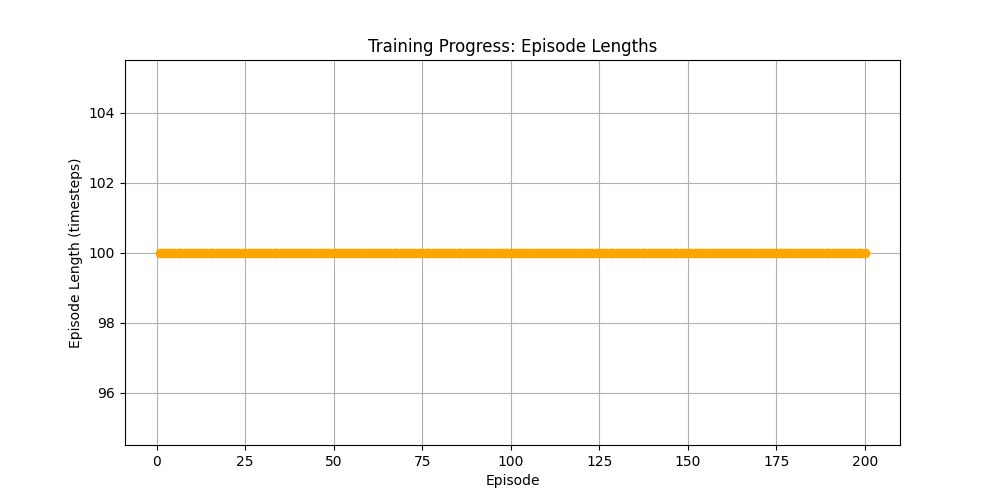
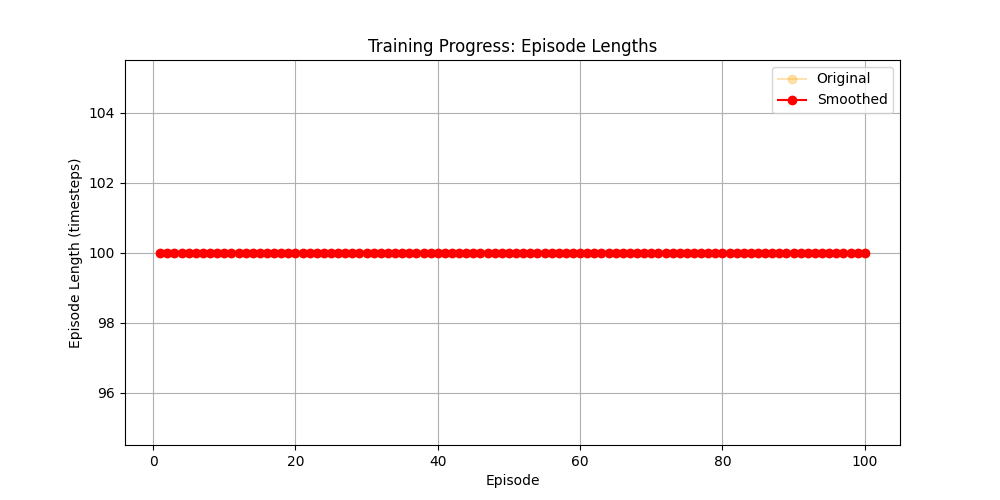
add the details of lanes

diff --git a/network/environment.py b/network/environment.py
@@ -26,7 +26,7 @@ class Network:
             num_vehicles=15,
             num_lower_uavs=1,
             num_upper_uavs=1,
-            num_rsus=5,
+            num_rsus=8,
             num_base_stations=1
         )
         # 计算真实状态维度
@@ -142,83 +142,90 @@ class Network:
     def add_base_station(self, base_station: BaseStation):
         self.base_stations.append(base_station)
 
-    def reset_nodes(self, num_vehicles, num_lower_uavs, num_upper_uavs, num_rsus,
-                         num_base_stations):
-        """初始化所有节点，并按照布局生成合理的位置"""
-        # 清空已有节点列表，防止重复添加
+    def reset_nodes(self, num_vehicles, num_lower_uavs, num_upper_uavs, num_rsus,num_base_stations):
+        """初始化所有节点，并按照新的10km*10km布局生成合理的位置"""
+        # 清空已有节点
         self.vehicles = []
         self.lower_uavs = []
         self.upper_uavs = []
         self.rsus = []
         self.base_stations = []
 
-        lane_positions = [
-            (np.array([100, 500, 0]), np.array([900, 500, 0])),  # 水平车道
-            (np.array([500, 100, 0]), np.array([500, 900, 0]))  # 垂直车道
+        # 10km × 10km 场景，五个十字路口（单位：米）
+        intersections = [
+            np.array([5000, 5000, 0]),  # 主十字路口（中心）
+            np.array([2500, 5000, 0]),  # 左侧十字路口
+            np.array([7500, 5000, 0]),  # 右侧十字路口
+            np.array([5000, 2500, 0]),  # 下侧十字路口
+            np.array([5000, 7500, 0])  # 上侧十字路口
         ]
-        intersections = [np.array([500, 500, 0])]  # 十字路口位置
 
-        # 初始化车辆（在车道上）
+        # 车道（水平和垂直）
+        lane_positions = []
+        for inter in intersections:
+            lane_positions.append((inter - np.array([4000, 0, 0]), inter + np.array([4000, 0, 0])))  # 水平车道
+            lane_positions.append((inter - np.array([0, 4000, 0]), inter + np.array([0, 4000, 0])))  # 垂直车道
+
+        # 初始化车辆（分布在十字车道上）
         for i in range(num_vehicles):
             lane = random.choice(lane_positions)
             position = lane[0] + np.random.rand() * (lane[1] - lane[0])
             vehicle = Vehicle(vid=i)
             vehicle.position = position
             vehicle.position[2] = 0  # 固定高度
-            vehicle.direction=vehicle._random_direction()
+            vehicle.direction = vehicle._random_direction()
             vehicle.task_queue.clear()
             vehicle.generate_task(vehicle.vid)
             self.add_vehicle(vehicle)
 
-        # 初始化低空无人机（尽量在十字路口附近）
+        # 初始化低空无人机（在十字路口附近）
         for i in range(num_lower_uavs):
-            position = intersections[0] + np.random.uniform(-300, 300, 3)
+            intersection = random.choice(intersections)
+            position = intersection + np.random.uniform(-500, 500, 3)
             position[2] = 50  # 固定高度
             lower_uav = LowerUAV(uav_id=i, position=position, speed=10)
             lower_uav.task_queue.clear()
-            lower_uav.energy=100
+            lower_uav.energy = 100
             self.add_lower_uav(lower_uav)
 
-        # 初始化高空无人机（在十字路口上方）
+        # 初始化高空无人机（在主十字路口上方）
         for i in range(num_upper_uavs):
-            position = intersections[0] + np.random.uniform(-10, 10, 3)
+            intersection = intersections[0]
+            position = intersection + np.random.uniform(-50, 50, 3)
             position[2] = 200  # 固定高度
             upper_uav = UpperUAV(uav_id=i, position=position)
             upper_uav.task_queue.clear()
             upper_uav.energy = 100
             self.add_upper_uav(upper_uav)
 
-        # 初始化 RSU（在路边）
-        for i in range(num_rsus):
-            lane = random.choice(lane_positions)
-            position = lane[0] + np.random.rand() * (lane[1] - lane[0])
-            position[2] = 0  # 固定高度
-            position += np.random.uniform(-100, 100, 3) * np.array([1, 1, 0])
-            rsu = RSU(rsu_id=i, position=position, coverage_range=300, compute_capacity=50e8)
+        # 初始化 RSU（均匀分布在路边，共8个）
+        rsu_positions = [
+            intersections[0],  # 中央十字路口
+            intersections[1], intersections[2], intersections[3], intersections[4],  # 四个衍生十字路口
+            np.array([1000, 5000, 0]),  # 左侧道路
+            np.array([9000, 5000, 0]),  # 右侧道路
+            np.array([5000, 1000, 0]),  # 下侧道路
+            np.array([5000, 9000, 0])  # 上侧道路
+        ]
+
+        for i, position in enumerate(rsu_positions):
+            rsu = RSU(rsu_id=i, position=position, coverage_range=1000, compute_capacity=50e8)
             self.add_rsu(rsu)
 
-        # 初始化基站（在边缘区域）
+        # 初始化基站（放置在边界，靠近四个角落）
+        base_station_positions = [
+            np.array([1000, 1000, 0]),  # 左下角
+            np.array([9000, 1000, 0]),  # 右下角
+            np.array([1000, 9000, 0]),  # 左上角
+            np.array([9000, 9000, 0])  # 右上角
+        ]
         for i in range(num_base_stations):
-            position = np.array([random.choice([100, 900]), random.choice([100, 900]), 0])
-            position[2] = 0  # 固定高度
-            base_station = BaseStation(bs_id=i, position=position, coverage_range=500, compute_capacity=70e8)
+            position = random.choice(base_station_positions)
+            base_station = BaseStation(bs_id=i, position=position, coverage_range=2000, compute_capacity=70e8)
             self.add_base_station(base_station)
+
         self.time_step = 0
-        # self.print_for_init()
         return self.get_global_state()
-    # def reset(self):
-    #     """重置环境并返回初始状态"""
-    #     for vehicle in self.vehicles:
-    #         vehicle.reset()
-    #     for lower_uav in self.lower_uavs:
-    #         lower_uav.reset()
-    #     for upper_uav in self.upper_uavs:
-    #         upper_uav.reset()
-    #     for rsu in self.rsus:
-    #         rsu.reset()
-    #     for base_station in self.base_stations:
-    #         base_station.reset()
-    #     self.time_step = 0
 
 
     def print_for_init(self):
@@ -260,41 +267,76 @@ class Network:
             pos = bs.position
             print(f"BaseStation {bs.bs_id} 位置: [{pos[0]:.2f}, {pos[1]:.2f}, "
                   f"{pos[2]:.2f}] 覆盖范围: {bs.coverage_range} m 计算能力: {bs.compute_capacity:.0e} ops")
+
     def visualize(self):
         """可视化初始化后的网络环境"""
         fig = plt.figure()
         ax = fig.add_subplot(111, projection='3d')
 
-        # 绘制车辆节点
+        # 场景范围
+        scene_size = 10000  # 10km * 10km
+
+        # 定义十字路口坐标
+        intersections = [
+            np.array([5000, 5000, 0]),  # 主十字路口
+            np.array([2500, 5000, 0]),  # 左侧十字路口
+            np.array([7500, 5000, 0]),  # 右侧十字路口
+            np.array([5000, 2500, 0]),  # 下侧十字路口
+            np.array([5000, 7500, 0])  # 上侧十字路口
+        ]
+
+        # 车道（水平和垂直）
+        lane_positions = [
+            ((0, 5000, 0), (10000, 5000, 0)),  # 水平主干道
+            ((0, 2500, 0), (10000, 2500, 0)),  # 水平次干道
+            ((0, 7500, 0), (10000, 7500, 0)),  # 水平次干道
+            ((5000, 0, 0), (5000, 10000, 0)),  # 垂直主干道
+            ((2500, 0, 0), (2500, 10000, 0)),  # 垂直次干道
+            ((7500, 0, 0), (7500, 10000, 0))  # 垂直次干道
+        ]
+
+        # 绘制车道
+        for lane in lane_positions:
+            x_vals = [lane[0][0], lane[1][0]]
+            y_vals = [lane[0][1], lane[1][1]]
+            z_vals = [lane[0][2], lane[1][2]]
+            ax.plot(x_vals, y_vals, z_vals, 'k-', linewidth=2, label="Road")
+
+        # 绘制十字路口
+        for intersection in intersections:
+            ax.scatter(intersection[0], intersection[1], intersection[2], c='black', marker='X', s=100,
+                       label="Intersection")
+
+        # 绘制车辆
         for vehicle in self.vehicles:
             ax.scatter(vehicle.position[0], vehicle.position[1], vehicle.position[2], c='r', marker='o',
                        label="Vehicle")
 
-        # 绘制低空无人机节点
+        # 绘制低空无人机
         for lower_uav in self.lower_uavs:
             ax.scatter(lower_uav.position[0], lower_uav.position[1], lower_uav.position[2], c='b', marker='^',
                        label="Lower UAV")
 
-        # 绘制高空无人机节点
+        # 绘制高空无人机
         for upper_uav in self.upper_uavs:
             ax.scatter(upper_uav.position[0], upper_uav.position[1], upper_uav.position[2], c='g', marker='v',
                        label="Upper UAV")
 
-        # 绘制RSU节点
+        # 绘制 RSU
         for rsu in self.rsus:
             ax.scatter(rsu.position[0], rsu.position[1], rsu.position[2], c='y', marker='s', label="RSU")
 
-        # 绘制基站节点
+        # 绘制基站
         for base_station in self.base_stations:
             ax.scatter(base_station.position[0], base_station.position[1], base_station.position[2], c='m', marker='D',
                        label="Base Station")
 
         # 设置坐标轴标签
-        ax.set_xlabel('X Coordinate')
-        ax.set_ylabel('Y Coordinate')
-        ax.set_zlabel('Z Coordinate')
+        ax.set_xlabel('X Coordinate (m)')
+        ax.set_ylabel('Y Coordinate (m)')
+        ax.set_zlabel('Z Coordinate (m)')
 
-        # 防止标签重复
+        # 统一图例，防止重复
         handles, labels = ax.get_legend_handles_labels()
         by_label = dict(zip(labels, handles))
         ax.legend(by_label.values(), by_label.keys())

diff --git a/network/Test.py b/network/Test.py
@@ -88,20 +88,36 @@ def main():
     # ---------------------------
     # 5. 可视化训练进度
     # ---------------------------
+    def smooth_curve(data, alpha=0.3):
+        smoothed = []
+        last = data[0]  # 初始值
+        for point in data:
+            last = alpha * point + (1 - alpha) * last  # 计算指数移动平均
+            smoothed.append(last)
+        return smoothed
+
+    # 计算平滑后的曲线
+    smoothed_rewards = smooth_curve(episode_rewards, alpha=0.3)
+    smoothed_lengths = smooth_curve(episode_lengths, alpha=0.3)
+
     plt.figure(figsize=(10, 5))
-    plt.plot(range(1, num_episodes+1), episode_rewards, marker='o')
+    plt.plot(range(1, num_episodes + 1), episode_rewards, marker='o', label="Original", alpha=0.3)
+    plt.plot(range(1, num_episodes + 1), smoothed_rewards, marker='o', label="Smoothed", color='blue')
     plt.xlabel("Episode")
     plt.ylabel("Total Reward")
     plt.title("Training Progress: Episode Rewards")
+    plt.legend()
     plt.grid(True)
     plt.savefig("training_progress.png")
     plt.close()
 
     plt.figure(figsize=(10, 5))
-    plt.plot(range(1, num_episodes+1), episode_lengths, marker='o', color='orange')
+    plt.plot(range(1, num_episodes + 1), episode_lengths, marker='o', color='orange', alpha=0.3, label="Original")
+    plt.plot(range(1, num_episodes + 1), smoothed_lengths, marker='o', color='red', label="Smoothed")
     plt.xlabel("Episode")
     plt.ylabel("Episode Length (timesteps)")
     plt.title("Training Progress: Episode Lengths")
+    plt.legend()
     plt.grid(True)
     plt.savefig("episode_lengths.png")
     plt.close()

diff --git a/network/SAC_agent.py b/network/SAC_agent.py
@@ -11,7 +11,7 @@ from network.channel import ChannelModel
 
 
 class SACAgent:
-    def __init__(self, network, hidden_dim=256, lr=1e-5, gamma=0.99, tau=0.001, alpha=0.001, weight_decay=1e-5):
+    def __init__(self, network, hidden_dim=256, lr=1e-4, gamma=0.99, tau=0.01, alpha=0.01, weight_decay=1e-5):
         self.network = network  # 直接使用外部的网络环境实例
         state_dim = network.state_dim
         action_dim = network.action_dim
